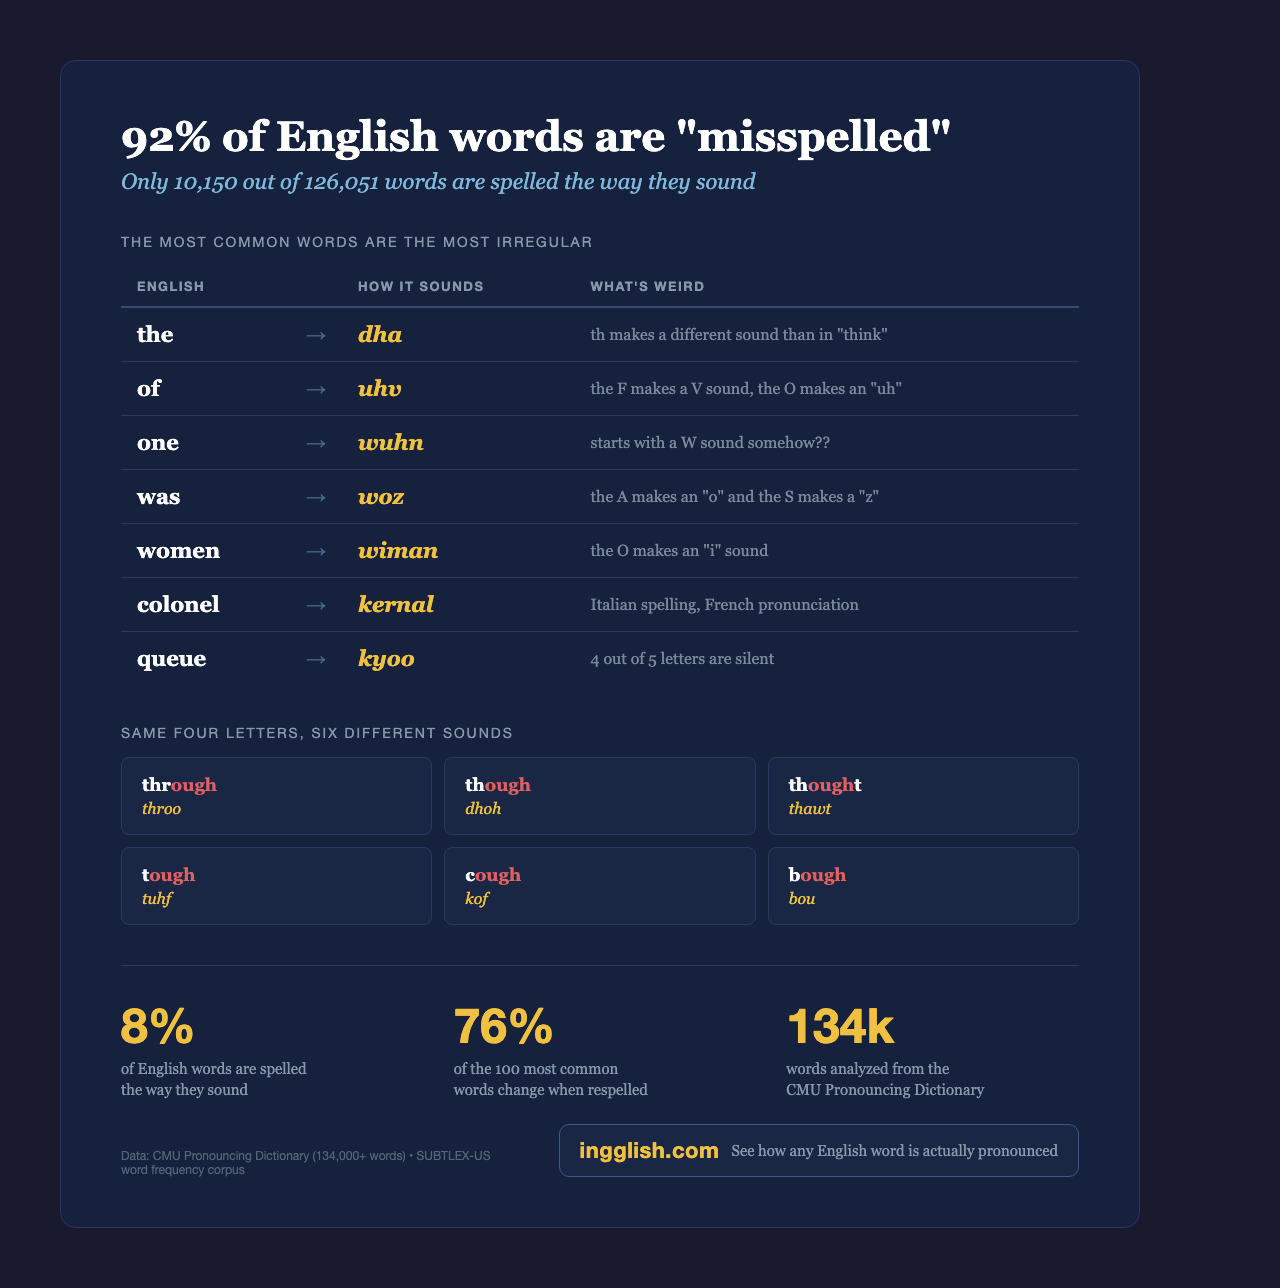
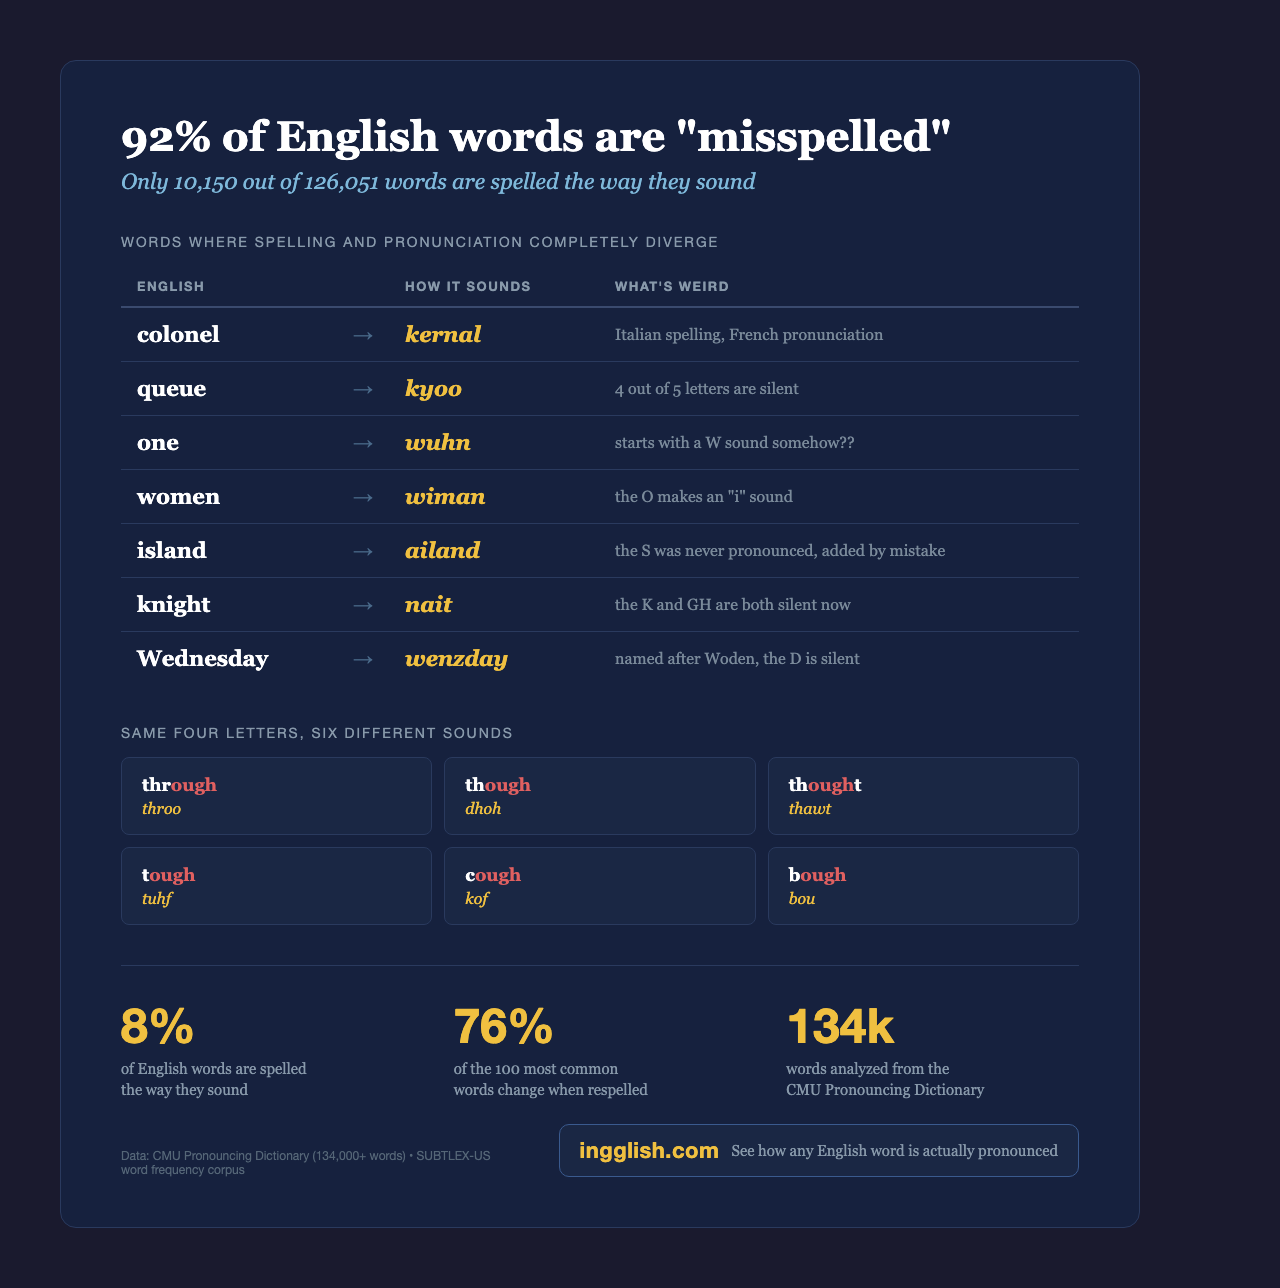
style: reorder etymology image to lead with strongest examples
Drop the/of (debatable "misspellings"), lead with colonel/queue/one,
add island/knight/Wednesday as more compelling examples.

diff --git a/social/etymology-misspelled-words.html b/social/etymology-misspelled-words.html
@@ -175,43 +175,13 @@
   <h1>92% of English words are "misspelled"</h1>
   <div class="stat">Only 10,150 out of 126,051 words are spelled the way they sound</div>
 
-  <div class="section-label">The most common words are the most irregular</div>
+  <div class="section-label">Words where spelling and pronunciation completely diverge</div>
   <table>
     <tr>
       <th>English</th>
       <th></th>
       <th>How it sounds</th>
       <th>What's weird</th>
-    </tr>
-    <tr>
-      <td class="word-english">the</td>
-      <td class="arrow">&rarr;</td>
-      <td class="word-phonemic">dha</td>
-      <td class="note">th makes a different sound than in "think"</td>
-    </tr>
-    <tr>
-      <td class="word-english">of</td>
-      <td class="arrow">&rarr;</td>
-      <td class="word-phonemic">uhv</td>
-      <td class="note">the F makes a V sound, the O makes an "uh"</td>
-    </tr>
-    <tr>
-      <td class="word-english">one</td>
-      <td class="arrow">&rarr;</td>
-      <td class="word-phonemic">wuhn</td>
-      <td class="note">starts with a W sound somehow??</td>
-    </tr>
-    <tr>
-      <td class="word-english">was</td>
-      <td class="arrow">&rarr;</td>
-      <td class="word-phonemic">woz</td>
-      <td class="note">the A makes an "o" and the S makes a "z"</td>
-    </tr>
-    <tr>
-      <td class="word-english">women</td>
-      <td class="arrow">&rarr;</td>
-      <td class="word-phonemic">wiman</td>
-      <td class="note">the O makes an "i" sound</td>
     </tr>
     <tr>
       <td class="word-english">colonel</td>
@@ -224,6 +194,36 @@
       <td class="arrow">&rarr;</td>
       <td class="word-phonemic">kyoo</td>
       <td class="note">4 out of 5 letters are silent</td>
+    </tr>
+    <tr>
+      <td class="word-english">one</td>
+      <td class="arrow">&rarr;</td>
+      <td class="word-phonemic">wuhn</td>
+      <td class="note">starts with a W sound somehow??</td>
+    </tr>
+    <tr>
+      <td class="word-english">women</td>
+      <td class="arrow">&rarr;</td>
+      <td class="word-phonemic">wiman</td>
+      <td class="note">the O makes an "i" sound</td>
+    </tr>
+    <tr>
+      <td class="word-english">island</td>
+      <td class="arrow">&rarr;</td>
+      <td class="word-phonemic">ailand</td>
+      <td class="note">the S was never pronounced, added by mistake</td>
+    </tr>
+    <tr>
+      <td class="word-english">knight</td>
+      <td class="arrow">&rarr;</td>
+      <td class="word-phonemic">nait</td>
+      <td class="note">the K and GH are both silent now</td>
+    </tr>
+    <tr>
+      <td class="word-english">Wednesday</td>
+      <td class="arrow">&rarr;</td>
+      <td class="word-phonemic">wenzday</td>
+      <td class="note">named after Woden, the D is silent</td>
     </tr>
   </table>
 
